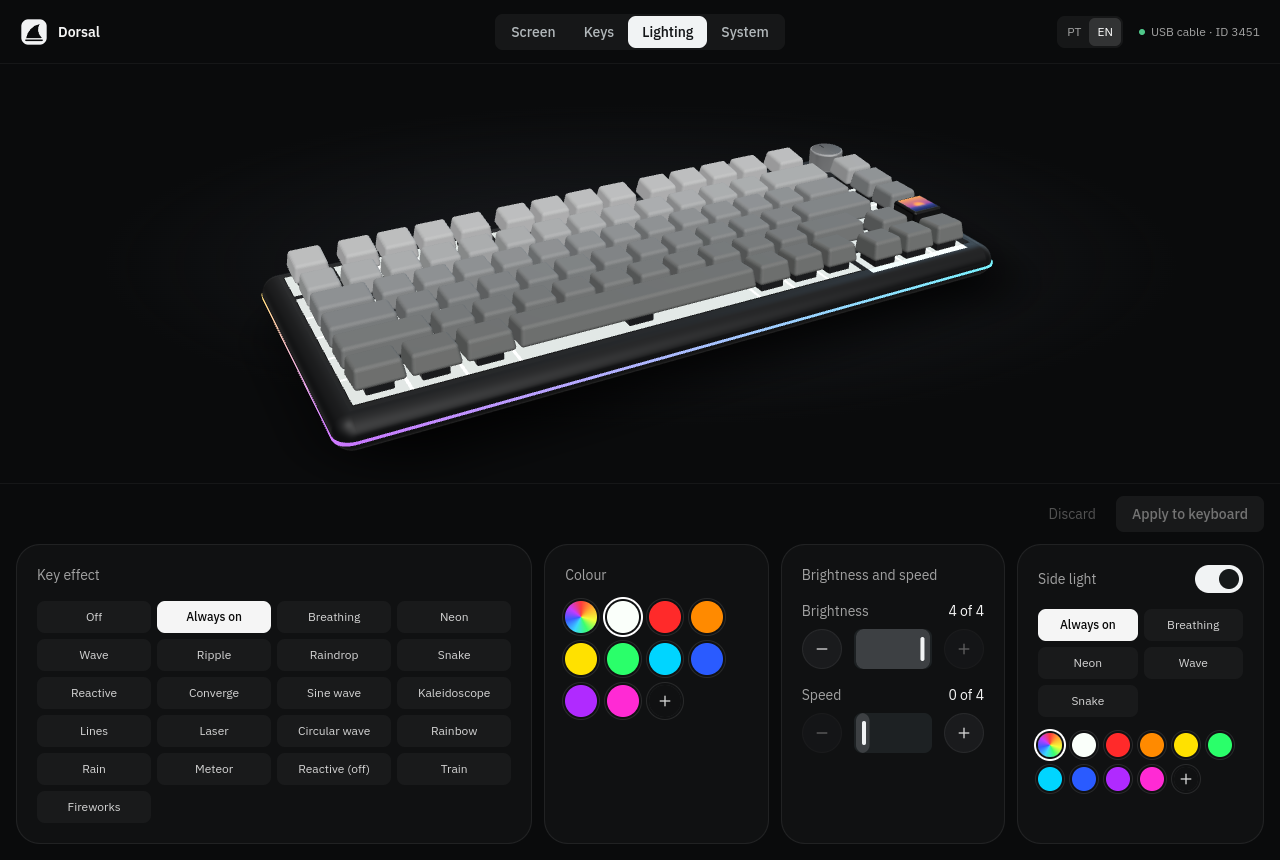
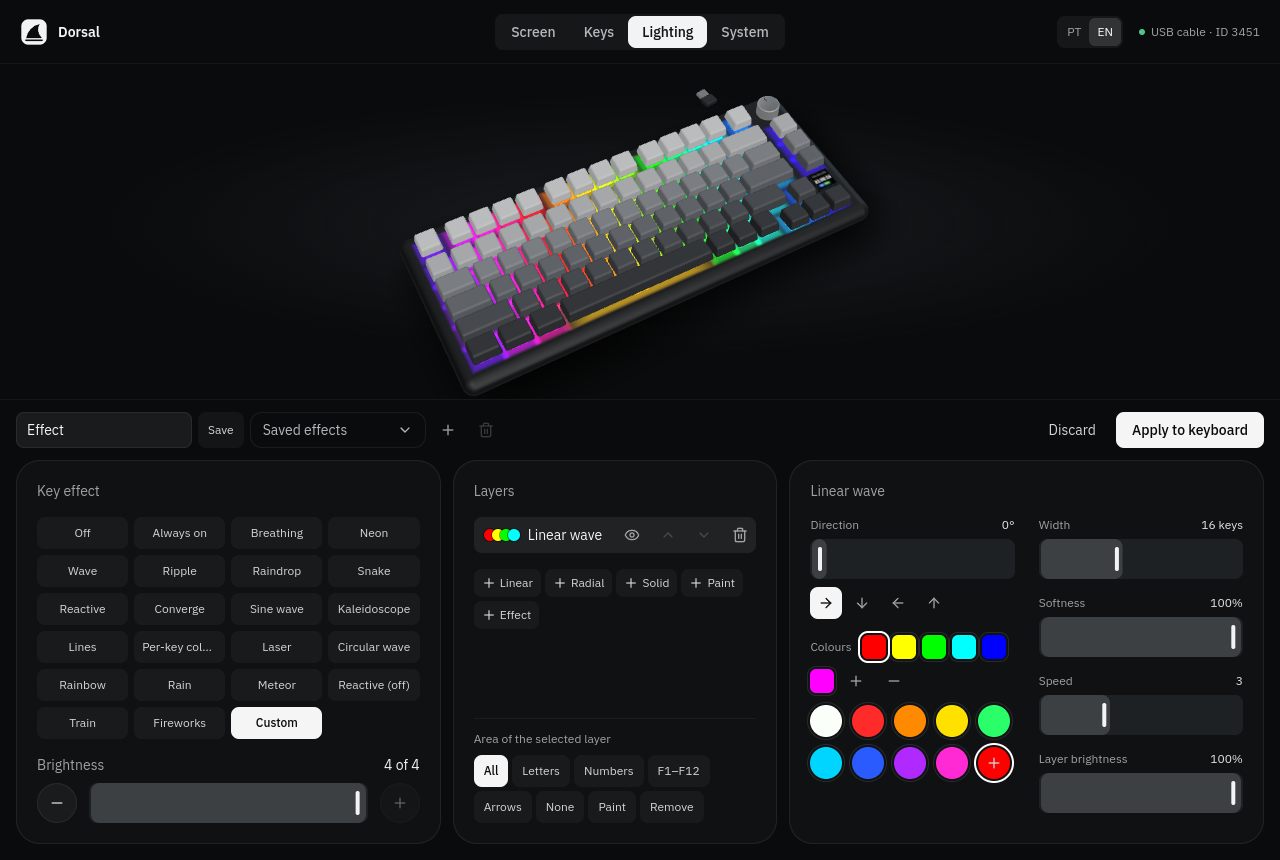
chore: release 0.1.1 with fresh screenshots and download links that follow the version

diff --git a/src/landing/LandingApp.tsx b/src/landing/LandingApp.tsx
@@ -23,9 +23,10 @@ import { TextReveal } from "@/components/motion/text-reveal";
 import { SharedLayoutBg } from "@/components/motion/shared-layout-bg";
 import { ScrollReveal } from "@/components/motion/scroll-reveal";
 
-const VERSION = "0.1.0";
-// The site's root by default, or a release page set in VITE_DOWNLOAD_BASE.
-const DOWNLOAD_BASE = (import.meta.env.VITE_DOWNLOAD_BASE ?? "").replace(/\/$/, "");
+const VERSION = "0.1.1";
+// The site's root by default, or a release page set in VITE_DOWNLOAD_BASE, where `{version}`
+// stands for VERSION, so a new version needs no change to the host's settings.
+const DOWNLOAD_BASE = (import.meta.env.VITE_DOWNLOAD_BASE ?? "").replaceAll("{version}", VERSION).replace(/\/$/, "");
 const APPIMAGE_FILE = `Dorsal-${VERSION}.AppImage`;
 const MINI_FILE = `Dorsal-Screen-${VERSION}.AppImage`;
 const APPIMAGE = `${DOWNLOAD_BASE}/${APPIMAGE_FILE}`;
@@ -258,7 +259,7 @@ const FEATURES = [
     text: ["Escolha uma foto ou um GIF, arraste para enquadrar e envie. O X85 guarda e mostra no lugar do relógio.", "Pick a photo or a GIF, drag to frame it and send. The X85 keeps it and shows it in place of the clock."],
     points: [
       ["GIFs de até 60 quadros, em 128 × 128", "GIFs up to 60 frames, at 128 × 128"],
-      ["Arraste para posicionar, role para dar zoom", "Drag to position, scroll to zoom"],
+      ["Arraste, role para dar zoom, ou cole com Ctrl+V", "Drag, scroll to zoom, or paste with Ctrl+V"],
       ["Acerta o relógio do teclado com um clique", "Sets the keyboard's clock in one click"],
       ["O envio continua com a janela em segundo plano", "Uploads keep going with the window in the background"],
     ],
@@ -284,12 +285,12 @@ const FEATURES = [
     text: ["Os 21 efeitos das teclas animam no modelo 3D, e o estúdio cria os seus, em camadas. O teclado só muda quando você aplicar.", "The 21 key effects play on the 3D model, and the studio makes your own, in layers. The keyboard only changes when you apply."],
     points: [
       ["Arco-íris, cores prontas ou qualquer cor", "Rainbow, ready colours or any colour"],
-      ["Brilho e velocidade", "Brightness and speed"],
-      ["Estúdio de efeitos, gravado no teclado", "An effect studio, stored on the keyboard"],
-      ["Um só botão aplica tudo", "One button applies it all"],
+      ["Pinte tecla por tecla no modelo 3D", "Paint key by key on the 3D model"],
+      ["Camadas de ondas, pintura e efeitos do teclado", "Layers of waves, paint and the keyboard's effects"],
+      ["O efeito do estúdio fica gravado no teclado", "The studio's effect is stored on the keyboard"],
     ],
     image: "light.png",
-    alt: ["A seção Iluminação: o teclado com a faixa lateral acesa e a grade de efeitos", "The Lighting section: the keyboard with its side band lit and the grid of effects"],
+    alt: ["A seção Iluminação: uma onda arco-íris entre as teclas e o estúdio com as camadas do efeito", "The Lighting section: a rainbow wave between the keys and the studio with the effect's layers"],
   },
   {
     id: "sistema",

diff --git a/docs/deployment.md b/docs/deployment.md
@@ -38,7 +38,7 @@ npm run appimage:mini   # release-mini/Dorsal-Screen-<version>.AppImage
 
 Each is about 100 MB: the Vite build and Electron with its English and Portuguese locales only (the dependencies are already bundled into `dist/`, so `node_modules` stays out). The landing page links to `<VITE_DOWNLOAD_BASE>/Dorsal-<version>.AppImage` and `<VITE_DOWNLOAD_BASE>/Dorsal-Screen-<version>.AppImage`:
 
-- **On a release page (recommended)**: attach both files to a GitHub release and set `VITE_DOWNLOAD_BASE` to its download URL, such as `https://github.com/<user>/dorsal/releases/download/v0.1.0`. Large binaries stay out of the site and of the repository.
+- **On a release page (recommended)**: attach both files to a GitHub release and set `VITE_DOWNLOAD_BASE` to its download URL with `{version}` in place of the version, such as `https://github.com/<user>/dorsal/releases/download/v{version}`: the landing page fills it in, so a new version needs no change on the host. Large binaries stay out of the site and of the repository.
 - **On the site itself**: leave `VITE_DOWNLOAD_BASE` empty and publish the files at the site's root. Check your host's limit on file size first.
 
 Locally, `npm run dev` and `npm run preview` serve the AppImages from `release/` and `release-mini/` at those same paths, so the download buttons work before anything is published.

diff --git a/docs/development.md b/docs/development.md
@@ -40,7 +40,7 @@ Then unplug and replug the keyboard.
 | --- | --- | --- |
 | `VITE_SITE_URL` | `https://dorsal.cotoo.dev` | The site's address: canonical links, social preview, `robots.txt`, `sitemap.xml` |
 | `VITE_X85_DEV` | `0` | `1` turns on developer mode: the dry-run switch and the Log section |
-| `VITE_DOWNLOAD_BASE` | empty | Where the landing page downloads the AppImages from; empty means the site's root |
+| `VITE_DOWNLOAD_BASE` | empty | Where the landing page downloads the AppImages from; empty means the site's root, and `{version}` stands for the app's version |
 | `VITE_REPO_URL` | `https://github.com/rouri404/dorsal` | The repository: the landing page's link to open an issue |
 
 The AppImages also read variables when they start:

diff --git a/README.pt.md b/README.pt.md
@@ -85,7 +85,7 @@ O protocolo está documentado em [`docs/protocol.md`](docs/protocol.md) (em ingl
 1. **Regra de acesso:** copie `udev/70-attack-shark-x85.rules` para `/etc/udev/rules.d/`, recarregue o udev e reconecte o cabo.
 2. **Dependências:** `npm install` (Node 22 ou mais novo).
 3. **Site:** `npm run dev` e abra o endereço num navegador com WebHID.
-4. **AppImage:** `npm run appimage`, depois `chmod +x release/Dorsal-0.1.0.AppImage` e abra o arquivo.
+4. **AppImage:** `npm run appimage`, depois `chmod +x release/Dorsal-0.1.1.AppImage` e abra o arquivo.
 
 </details>
 

diff --git a/README.md b/README.md
@@ -83,7 +83,7 @@ The protocol is documented in [`docs/protocol.md`](docs/protocol.md), with reads
 1. **Access rule:** copy `udev/70-attack-shark-x85.rules` to `/etc/udev/rules.d/`, reload udev and replug the cable.
 2. **Dependencies:** `npm install` (Node 22 or newer).
 3. **Website:** `npm run dev` and open the address in a browser with WebHID.
-4. **AppImage:** `npm run appimage`, then `chmod +x release/Dorsal-0.1.0.AppImage` and open the file.
+4. **AppImage:** `npm run appimage`, then `chmod +x release/Dorsal-0.1.1.AppImage` and open the file.
 
 </details>
 
